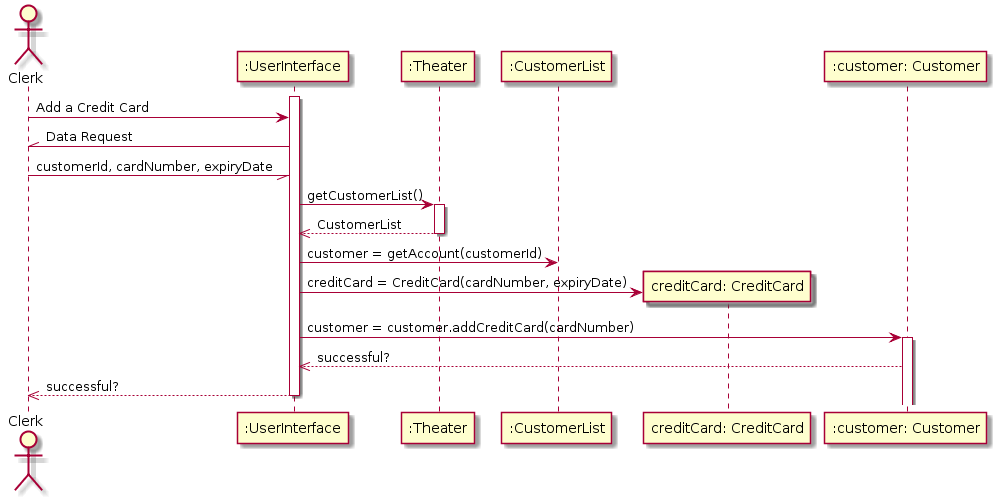
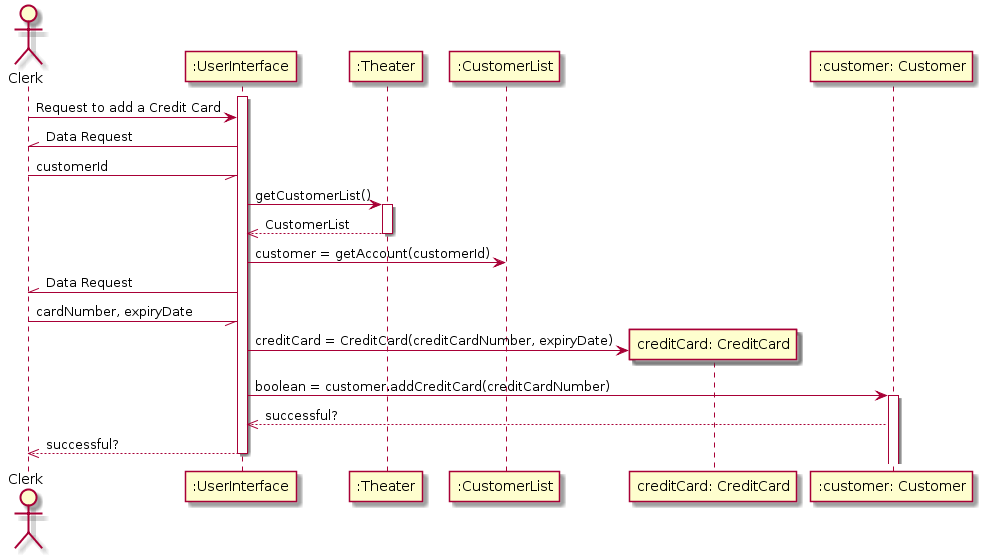
Update sequence diagrams
I fixed some errors I made in my original work. Thanks for helping me out with this Cory.

diff --git a/src/UserInterface.java b/src/UserInterface.java
@@ -213,14 +213,14 @@ public class UserInterface {
      * @author Eric Fulwiler
      */
     public static void addCreditCard() {
-        int id = UserInterfacePrompts.promptInt("Customer ID? ");
+        int customerId = UserInterfacePrompts.promptInt("Customer ID? ");
            
         //adds a new credit card to the customer's account, if the customer account exists
-        if (Theater.getCustomerList().getAccount(id)  == null) {
+        if (Theater.getCustomerList().getAccount(customerId)  == null) {
         	 System.out.println("Error, specified account does not exist, did you enter the correct account Id?");
         } else { 
         	CreditCard creditCard = UserInterfacePrompts.promptCreditCard("Credit card number? ", "Credit card expiration (MMyyyy)? ", "This card is expired, please enter in a new credit card.");
-     	   if ( Theater.getCustomerList().getAccount(id).addCreditCard(creditCard)) {} //if we can add a credit card
+     	   if ( Theater.getCustomerList().getAccount(customerId).addCreditCard(creditCard)) {} //if we can add a credit card
      	   else {
      		   System.out.println("Could not add credit card to the customer's account.");
      	   }
